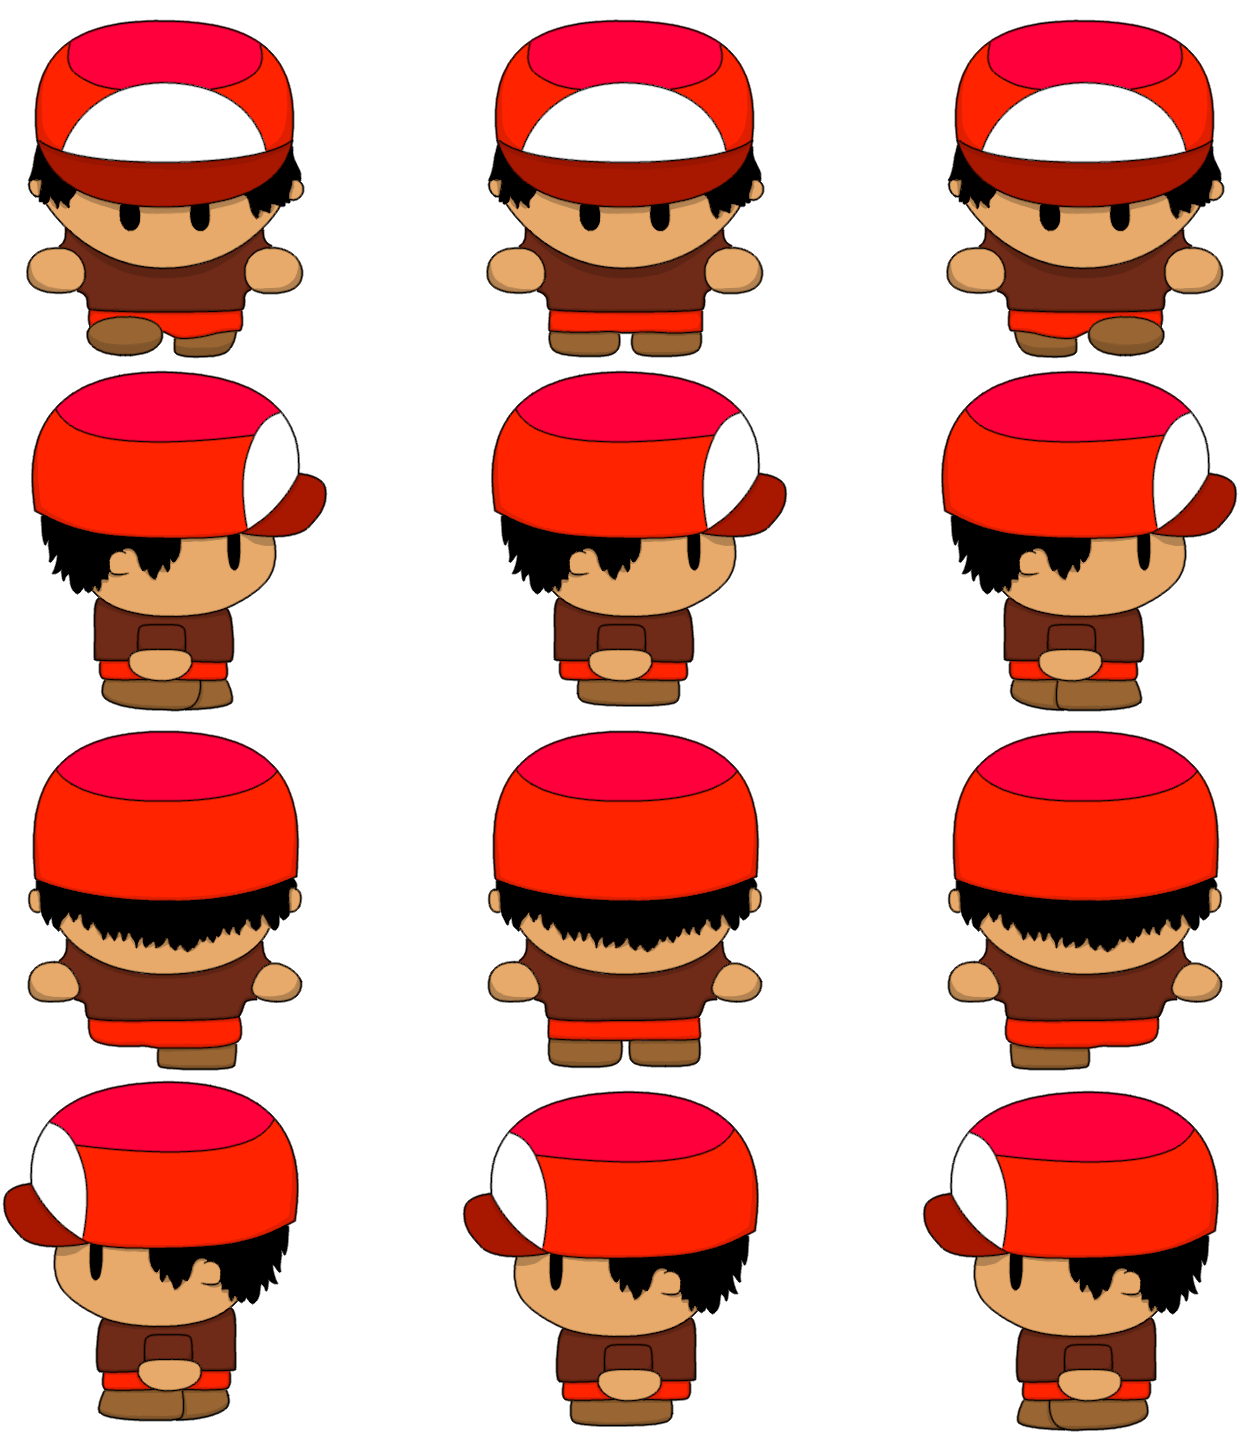
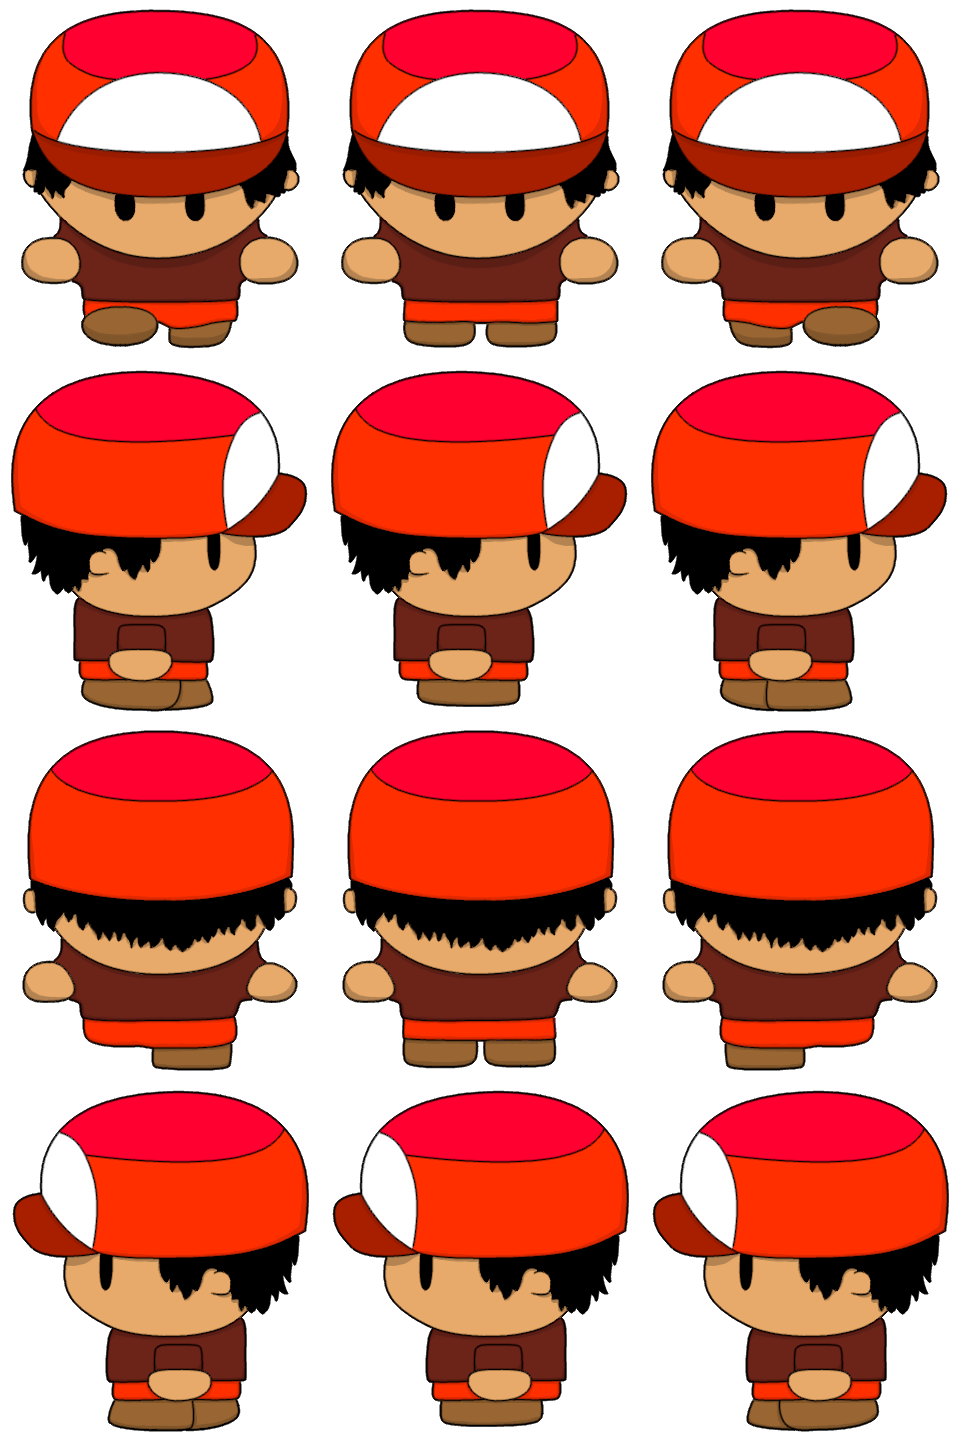
feat(Game): Change character sprite

diff --git a/src/Game/Models/Player.java b/src/Game/Models/Player.java
@@ -11,6 +11,8 @@ import Server.Messages.Socket.Position;
 import java.awt.*;
 import java.awt.event.KeyEvent;
 
+import static Game.Models.Animation.*;
+
 /**
  * The basic player model
  */
@@ -19,10 +21,6 @@ public class Player {
      * The speed of a player
      */
     public static float SPEED = 45f;
-    /**
-     * The size of the player sprite
-     */
-    public static int SPRITE_SIZE = 64;
     /**
      * The sprite of the player
      */
@@ -38,7 +36,7 @@ public class Player {
     /**
      * The theme of the player
      */
-    public String theme = "Philipp";
+    public int theme = 0;
     /**
      * The players item
      */
@@ -50,8 +48,12 @@ public class Player {
     public Player() {
         // Load the sprite
         sprite = new MBImage("Characters/" + theme + ".png", () -> {
-            sprite.width = (int) (sprite.original.getWidth(null) * Battleground.ratio);
-            sprite.height = (int) (sprite.original.getHeight(null) * Battleground.ratio);
+            // Update the ratio
+            spriteRatio = (float) Battleground.fieldSize / PLAYER_WIDTH;
+
+            // Update the measurements
+            sprite.width = (int) (spriteRatio * SCALE * 3 * PLAYER_WIDTH);
+            sprite.height = (int) (spriteRatio * SCALE * 4 * PLAYER_HEIGHT);
         });
     }
 
@@ -208,21 +210,18 @@ public class Player {
      */
     public void draw(Graphics g) {
         // Calculate the destination position
-        int dx = (int) ((position.x - 32) * Battleground.ratio) + Battleground.offset;
-        int dy = (int) ((position.y - 55) * Battleground.ratio) + Battleground.offset;
+        int dx = (int) ((position.x - 18) * Battleground.ratio) + Battleground.offset;
+        int dy = (int) ((position.y - 32) * Battleground.ratio) + Battleground.offset;
 
         // Calculate the position of the sprite
         int[] spritePosition = position.direction.getSpritePosition();
-        int sx = (int) (spritePosition[1] * SPRITE_SIZE * Battleground.ratio);
-        int sy = (int) (spritePosition[0] * SPRITE_SIZE * Battleground.ratio);
-
         // Draw the image
         g.drawImage(
                 sprite.getSub(
-                        sx,
-                        sy,
-                        (int) (SPRITE_SIZE * Battleground.ratio),
-                        (int) (SPRITE_SIZE * Battleground.ratio)
+                        (int) (spriteRatio * SCALE * spritePosition[1] * PLAYER_WIDTH),
+                        (int) (spriteRatio * SCALE * spritePosition[0] * PLAYER_HEIGHT),
+                        (int) (spriteRatio * SCALE * PLAYER_WIDTH),
+                        (int) (spriteRatio * SCALE * PLAYER_HEIGHT)
                 ),
                 dx,
                 dy,

diff --git a/src/Game/Models/Animation.java b/src/Game/Models/Animation.java
@@ -7,15 +7,23 @@ import Game.Game;
  */
 public enum Animation {
 
-    WALK_NORTH(0.8f, 8, 9),
-    WALK_EAST(0.8f, 11, 9),
-    WALK_SOUTH(0.8f, 10, 9),
-    WALK_WEST(0.8f, 9, 9);
+    WALK_NORTH(2),
+    WALK_EAST(1),
+    WALK_SOUTH( 0),
+    WALK_WEST( 3);
 
+    /**
+     * The measurements of the sprite
+     */
+    public static final float PLAYER_WIDTH = 320, PLAYER_HEIGHT = 360, SCALE = 1.15f;
+    /**
+     * The ratio of the measurements
+     */
+    public static float spriteRatio = 1f;
     /**
      * The time for one animation run
      */
-    public float maxTime;
+    public static final float MAX_TIME = 0.8f;
     /**
      * The current time counter for the animation
      */
@@ -25,17 +33,15 @@ public enum Animation {
      */
     public int m;
     /**
-     * Amount of pictures in the sprite
+     * Order of animation
      */
-    public int amount;
+    private final int[] ORDER = {1, 0, 1, 2};
 
     /**
      * Constructor
      */
-    Animation(float maxTime, int m, int amount) {
-        this.maxTime = maxTime;
+    Animation(int m) {
         this.m = m;
-        this.amount = amount;
     }
 
     /**
@@ -45,11 +51,11 @@ public enum Animation {
      */
     public int getN(Direction direction) {
         currentTime += Game.deltaTime;
-        if (currentTime > maxTime || !direction.moving) {
+        if (currentTime > MAX_TIME || !direction.moving) {
             currentTime = 0;
         } else {
-            return (int) (currentTime / maxTime * amount);
+            return ORDER[(int) (currentTime / MAX_TIME * ORDER.length)];
         }
-        return 0;
+        return ORDER[0];
     }
 }

diff --git a/src/General/Shared/MBPanel.java b/src/General/Shared/MBPanel.java
@@ -46,10 +46,12 @@ public abstract class MBPanel extends JPanel {
         addComponentListener(new ComponentAdapter() {
             @Override
             public void componentResized(ComponentEvent e) {
-                for (ComponentResize component : components) {
-                    component.resize();
+                synchronized (this) {
+                    for (ComponentResize component : components) {
+                        component.resize();
+                    }
+                    resize();
                 }
-                resize();
             }
         });
     }
@@ -57,7 +59,7 @@ public abstract class MBPanel extends JPanel {
     /**
      * Toggle the resize events
      */
-    public void resize() {
+    public synchronized void resize() {
         for (ComponentResize resize : events) {
             resize.resize();
         }
